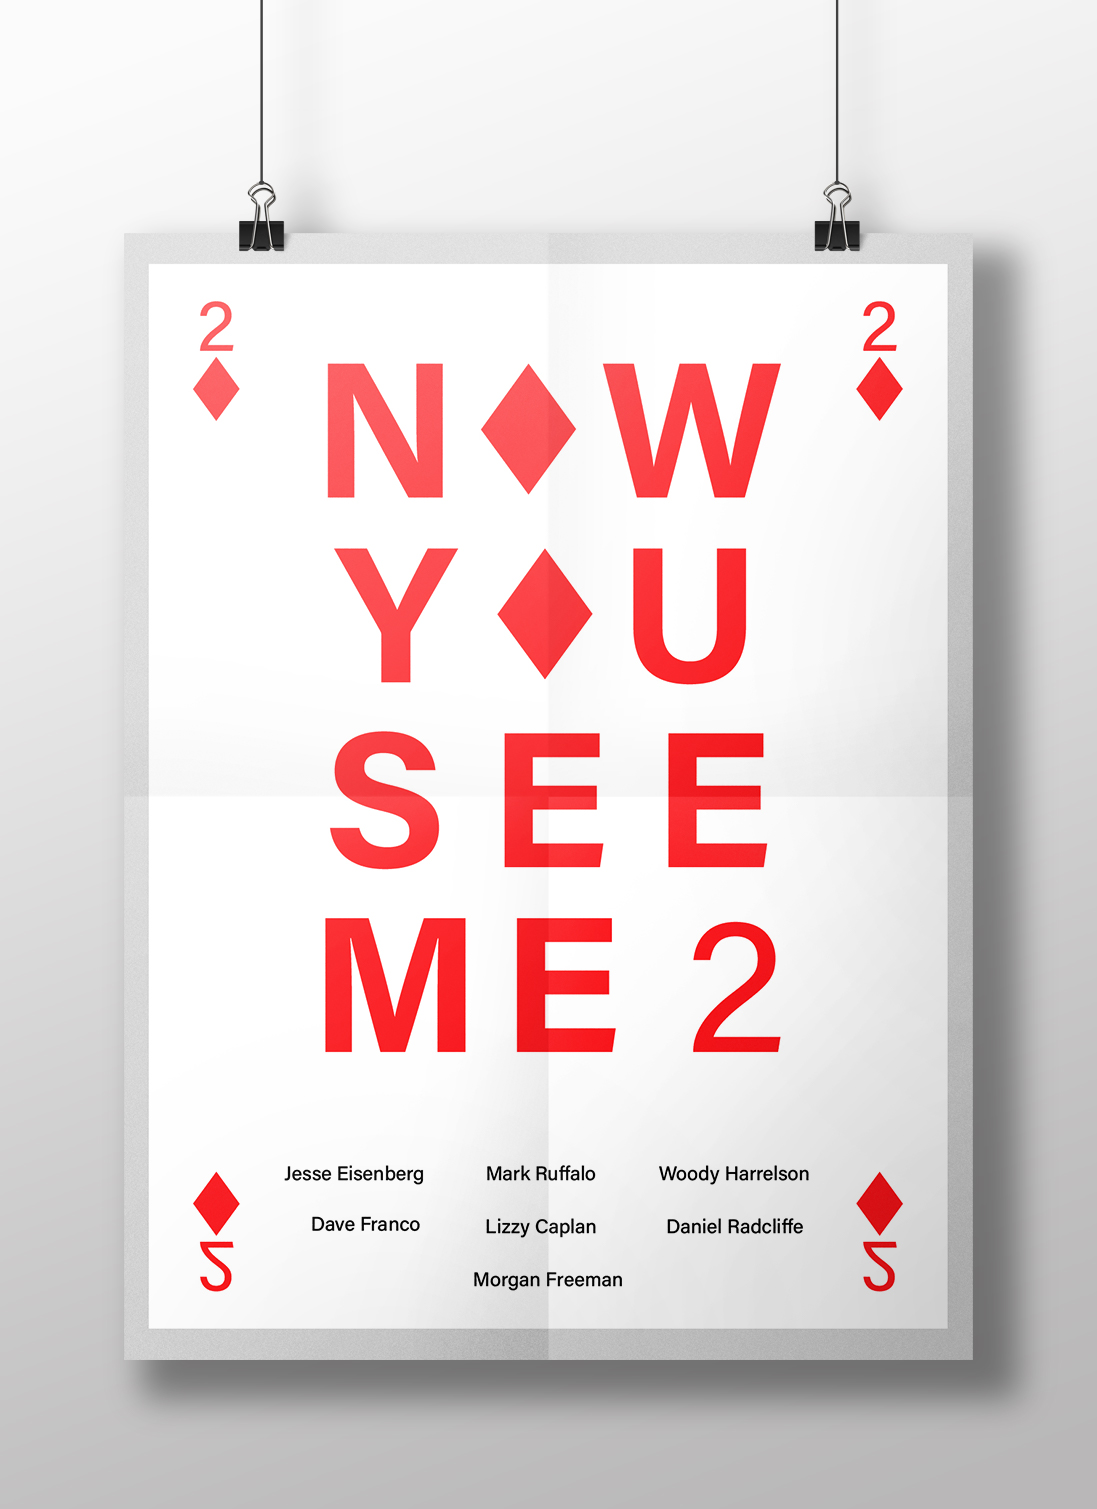
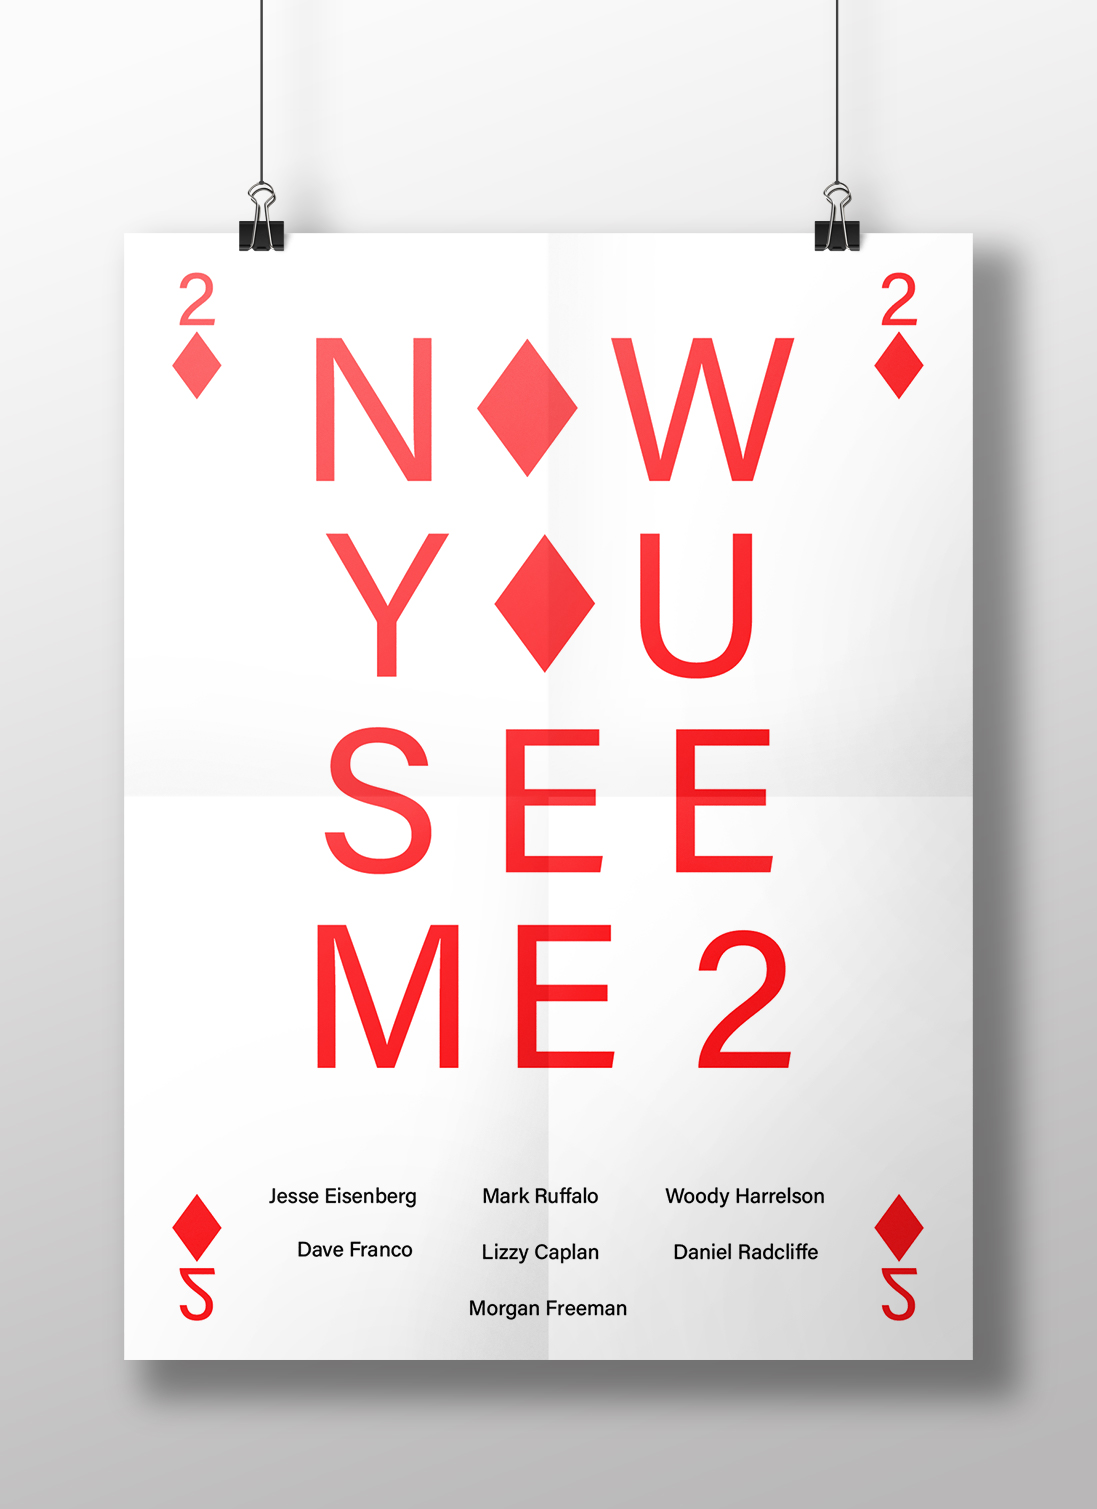
nuevo proyecto

diff --git a/index.html b/index.html
@@ -56,6 +56,7 @@
 
           <section class="portafolio">
             <h2>MIS PROYECTOS</h2>
+            
             <div class="padre">
                 <div class="hijo">
                     <div class="portafolio_img"><img src="./images/memori.PNG" alt=""></div>
@@ -99,10 +100,18 @@
                 </div>
                 <div class="hijo">
                     <div class="portafolio_img"><img src="./images/poster_mockup_NOW_YOU_SEE_MEE_2.jpg" alt=""></div>
-                    <h6>Rediseño Póster</h6>
+                    <h6>Rediseño póster</h6>
                     <p><b>Creado con:</b> Illustrator.</p>
                     <div class="boton">
                         <a href="https://www.behance.net/gallery/174621355/Poster-Now-You-See-Me-2" target="_blank">Ver más<i class="fa-solid fa-arrow-right"></i></a>
+                    </div>
+                </div>
+                <div class="hijo">
+                    <div class="portafolio_img"><img src="./images/Mesa de trabajo 2.png" alt=""></div>
+                    <h6>Ilustración póster Adidas</h6>
+                    <p><b>Creado con:</b> Illustrator.</p>
+                    <div class="boton">
+                        <a href="https://www.behance.net/gallery/179919173/Ilustracion-Poster-Adidas" target="_blank">Ver más<i class="fa-solid fa-arrow-right"></i></a>
                     </div>
                 </div>
                 

diff --git a/css/styles.css b/css/styles.css
@@ -303,3 +303,5 @@ p{
     width: 51px;
     margin: 0 10px;
 }
+
+/*TITULOS*/
